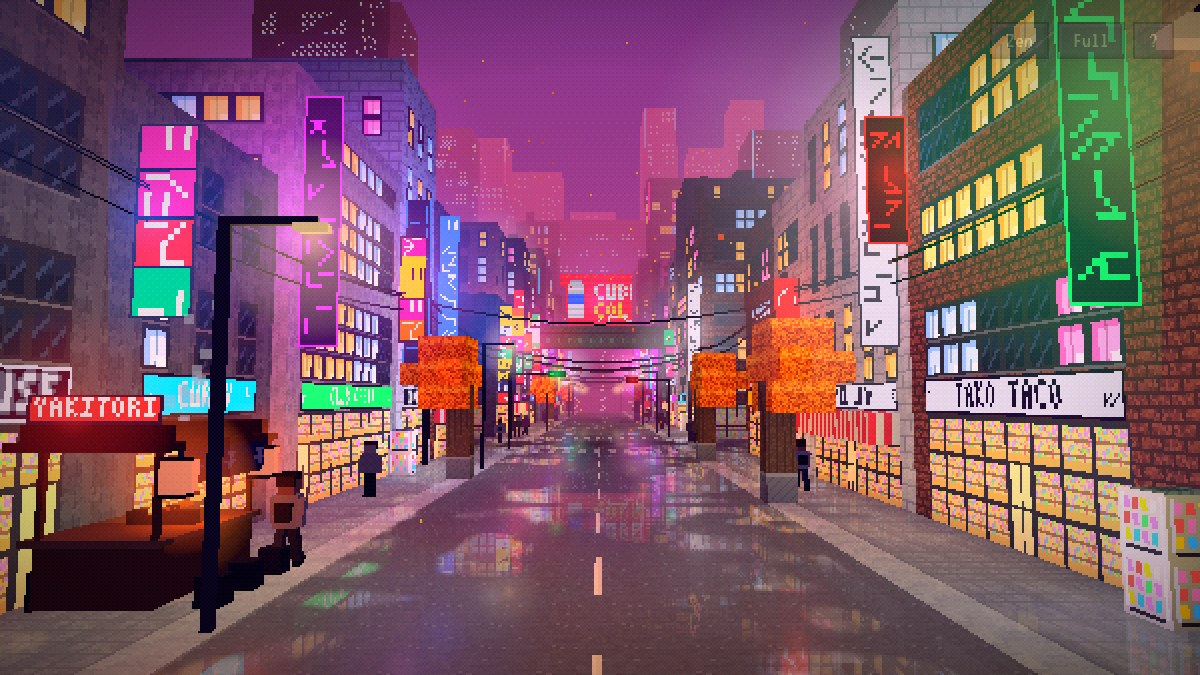
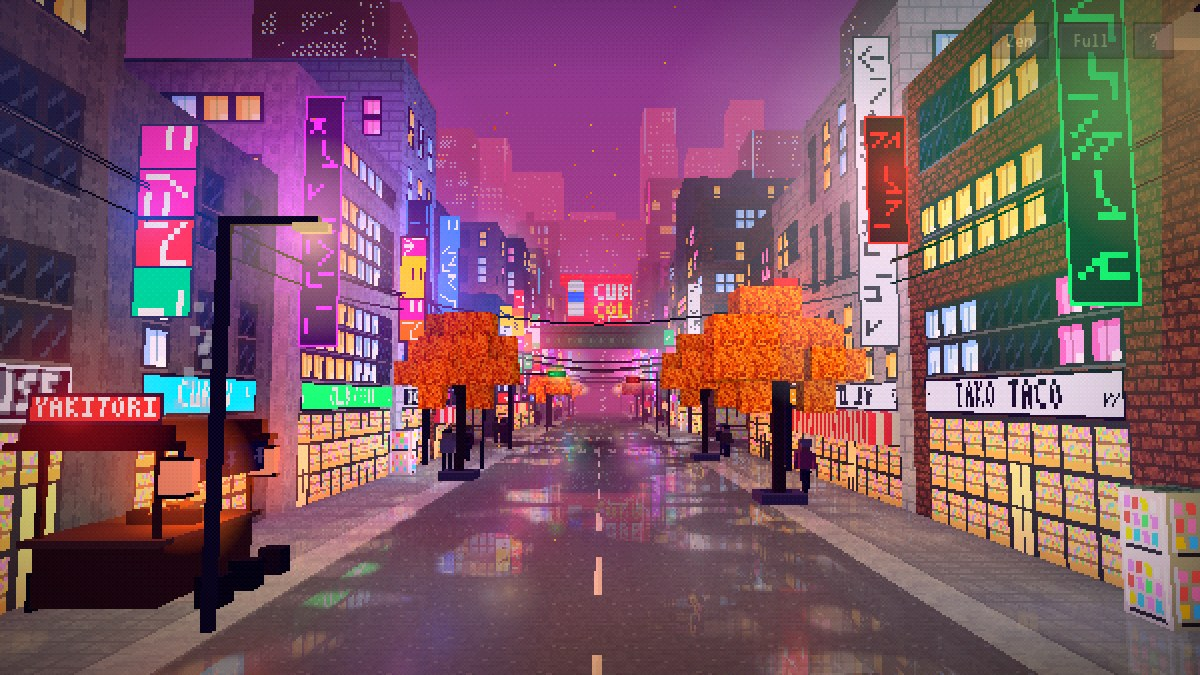
Give city trees and cars more volume
Trees: canopies made of several clumps at different depths, free to lean
over the road (they were clipped flat on the road side), shaded lighter
on top and darker below, with a softer leaf texture, on a slim trunk
with branches in a low planter instead of full blocks.

Cars: body, waist, glass cabin with a sky reflection, bumpers, plates,
mirrors and wheels, shaded per face with a sheen so dark cars keep their
shape at night, plus headlight beams and red tail glows on the road.
Each car or limb is now one merged mesh to keep draw calls down.

?advance=N fast-forwards the city's life for previews.

Claude-Session: https://claude.ai/code/session_01AbMesrFbhVrH8bBNLVapXi

diff --git a/js/world/city/life.js b/js/world/city/life.js
@@ -1,18 +1,57 @@
 // People walking the pavements (umbrellas up when it rains), cars with their lights and a
 // commuter train crossing the bridge. Nothing here casts shadows: the shadow map is static.
 import * as THREE from 'three';
+import { mergeGeometries } from 'three/addons/utils/BufferGeometryUtils.js';
 import { pixelTexture } from '../common.js';
 import { G, CROSS, BRIDGE, END_Z } from './build.js';
 import { YATAI } from './props.js';
 
+// Boxes shaded per face like the voxels (bright tops, darker sides and undersides), so small
+// things read as solid even when the light is flat.
 const mats = new Map();
-const lambert = (c) => { if (!mats.has(c)) mats.set(c, new THREE.MeshLambertMaterial({ color: c })); return mats.get(c); };
-const part = (parent, w, h, d, color, x, y, z) => {
-  const m = new THREE.Mesh(new THREE.BoxGeometry(w, h, d), typeof color === 'string' ? lambert(color) : color);
-  m.position.set(x, y, z);
-  parent.add(m);
-  return m;
-};
+const lambert = (c) => { if (!mats.has(c)) mats.set(c, new THREE.MeshLambertMaterial({ color: c, vertexColors: true })); return mats.get(c); };
+const SHADE = { px: 0.82, nx: 0.82, py: 1, ny: 0.45, pz: 0.7, nz: 0.7 };
+function shadedBox(w, h, d) {
+  const g = new THREE.BoxGeometry(w, h, d);
+  const n = g.attributes.normal, col = [];
+  for (let i = 0; i < n.count; i++) {
+    const x = n.getX(i), y = n.getY(i);
+    const k = y > 0.5 ? SHADE.py : y < -0.5 ? SHADE.ny : Math.abs(x) > 0.5 ? SHADE.px : SHADE.pz;
+    col.push(k, k, k);
+  }
+  g.setAttribute('color', new THREE.Float32BufferAttribute(col, 3));
+  return g;
+}
+// A kit collects coloured boxes and merges them into one mesh: one draw call per car or limb.
+const paintMat = new THREE.MeshLambertMaterial({ color: 0xffffff, vertexColors: true });
+const glowMat = new THREE.MeshBasicMaterial({ color: 0xffffff, vertexColors: true, toneMapped: false });
+function kit() {
+  const parts = [], c = new THREE.Color();
+  return {
+    box(w, h, d, color, x, y, z, lit = false) {
+      const g = lit ? new THREE.BoxGeometry(w, h, d) : shadedBox(w, h, d);
+      c.set(color);
+      const col = g.attributes.color ?? new THREE.Float32BufferAttribute(new Float32Array(g.attributes.position.count * 3).fill(1), 3);
+      // Plus a sheen: the purple sky and the neon caught on the paint, strongest on top, so even a
+      // black car keeps its shape at night.
+      const n = g.attributes.normal;
+      for (let i = 0; i < col.count; i++) {
+        const up = lit ? 0 : n.getY(i) > 0.5 ? 1 : n.getY(i) < -0.5 ? 0 : 0.35;
+        col.setXYZ(i, col.getX(i) * c.r + up * 0.05, col.getY(i) * c.g + up * 0.035, col.getZ(i) * c.b + up * 0.09);
+      }
+      g.setAttribute('color', col);
+      g.translate(x, y, z);
+      parts.push(g);
+      return this;
+    },
+    mesh(lit = false) {
+      const m = new THREE.Mesh(mergeGeometries(parts), lit ? glowMat : paintMat);
+      for (const p of parts) p.dispose();
+      return m;
+    },
+  };
+}
+const umbrellaMats = new Map();
 
 const COATS = ['#2a2a3a', '#4a4a5e', '#7a3a4a', '#3a5a7a', '#c8c0b0', '#5a6a4a', '#8a6a4a', '#1e1e28', '#d86a8a', '#e8e4dc'];
 const PANTS = ['#22222e', '#3a3a4e', '#4a4038', '#2a3448'];
@@ -23,53 +62,82 @@ const UMBRELLAS = ['#e8eef4', '#1e1e28', '#c83a4a', '#3a5aa8', '#e8eef4'];
 function makePerson(r) {
   const g = new THREE.Group();
   const pick = (a) => a[Math.floor(r() * a.length)];
-  const coat = pick(COATS), pants = pick(PANTS);
-  const legs = [-0.11, 0.11].map((x) => {
+  const coat = pick(COATS), pants = pick(PANTS), hair = pick(HAIR);
+  const limb = (x, y, build) => {
     const pivot = new THREE.Group();
-    pivot.position.set(x, 0.82, 0);
-    part(pivot, 0.17, 0.8, 0.2, pants, 0, -0.4, 0);
-    part(pivot, 0.18, 0.1, 0.26, '#1a1a20', 0, -0.78, 0.03);
+    pivot.position.set(x, y, 0);
+    pivot.add(build(kit()).mesh());
     g.add(pivot);
     return pivot;
-  });
-  part(g, 0.48, 0.66, 0.3, coat, 0, 1.15, 0);
-  const arms = [-0.3, 0.3].map((x) => {
-    const pivot = new THREE.Group();
-    pivot.position.set(x, 1.42, 0);
-    part(pivot, 0.13, 0.6, 0.16, coat, 0, -0.3, 0);
-    g.add(pivot);
-    return pivot;
-  });
-  part(g, 0.34, 0.34, 0.32, pick(SKIN), 0, 1.66, 0);
-  part(g, 0.37, 0.14, 0.35, pick(HAIR), 0, 1.84, -0.01);
-  part(g, 0.37, 0.2, 0.08, pick(HAIR), 0, 1.72, -0.16);
-  if (r() < 0.3) part(g, 0.3, 0.36, 0.14, pick(['#3a2a20', '#1a1a20', '#6a4a8a']), 0, 1.15, -0.22);   // a backpack
+  };
+  const legs = [-0.11, 0.11].map((x) => limb(x, 0.82, (k) => k.box(0.17, 0.8, 0.2, pants, 0, -0.4, 0).box(0.18, 0.1, 0.26, '#1a1a20', 0, -0.78, 0.03)));
+  const arms = [-0.3, 0.3].map((x) => limb(x, 1.42, (k) => k.box(0.13, 0.6, 0.16, coat, 0, -0.3, 0)));
+  const body = kit()
+    .box(0.48, 0.66, 0.3, coat, 0, 1.15, 0)
+    .box(0.34, 0.34, 0.32, pick(SKIN), 0, 1.66, 0)
+    .box(0.37, 0.14, 0.35, hair, 0, 1.84, -0.01)
+    .box(0.37, 0.2, 0.08, hair, 0, 1.72, -0.16);
+  if (r() < 0.3) body.box(0.3, 0.36, 0.14, pick(['#3a2a20', '#1a1a20', '#6a4a8a']), 0, 1.15, -0.22);   // a backpack
+  g.add(body.mesh());
   // Umbrella: a low eight-sided cone on a handle, held a little forward.
   const umbrella = new THREE.Group();
   const col = pick(UMBRELLAS);
-  const clear = col === '#e8eef4';
-  umbrella.add(new THREE.Mesh(new THREE.ConeGeometry(0.72, 0.32, 8), new THREE.MeshLambertMaterial({ color: col, transparent: clear, opacity: clear ? 0.6 : 1 })));
-  umbrella.children[0].position.y = 0.16;
-  part(umbrella, 0.04, 0.75, 0.04, '#2a2a30', 0, -0.3, 0);
+  if (!umbrellaMats.has(col)) { const clear = col === '#e8eef4'; umbrellaMats.set(col, new THREE.MeshLambertMaterial({ color: col, transparent: clear, opacity: clear ? 0.6 : 1 })); }
+  const canopy = new THREE.Mesh(new THREE.ConeGeometry(0.72, 0.32, 8), umbrellaMats.get(col));
+  canopy.position.y = 0.16;
+  umbrella.add(canopy, kit().box(0.04, 0.75, 0.04, '#2a2a30', 0, -0.3, 0).mesh());
   umbrella.position.set(0.12, 2.2, 0.1);
   g.add(umbrella);
   return { group: g, legs, arms, umbrella, wantsUmbrella: r() };
 }
 
+// Light on the road in front of a car and a red smudge behind it. Shared by all cars, so their
+// brightness is set once per frame for the time of day.
+function poolTexture(long) {
+  const c = document.createElement('canvas');
+  c.width = 16; c.height = 32;
+  const g = c.getContext('2d');
+  for (let y = 0; y < 32; y++) for (let x = 0; x < 16; x++) {
+    const u = (x - 7.5) / 8, v = y / 31;
+    const a = long ? Math.max(0, 1 - v) * Math.max(0, 1 - Math.abs(u) / (0.45 + v * 0.55)) : Math.max(0, 1 - Math.hypot(u, (v - 0.5) * 2));
+    g.fillStyle = `rgba(255,255,255,${(a * a).toFixed(3)})`;
+    g.fillRect(x, y, 1, 1);
+  }
+  return pixelTexture(c);
+}
+const beamMat = new THREE.MeshBasicMaterial({ map: poolTexture(true), color: 0xfff0d0, transparent: true, blending: THREE.AdditiveBlending, depthWrite: false, toneMapped: false });
+const tailPoolMat = new THREE.MeshBasicMaterial({ map: poolTexture(false), color: 0xff2a2a, transparent: true, blending: THREE.AdditiveBlending, depthWrite: false, toneMapped: false });
+
+const CAR_COLOURS = ['#e8e8ec', '#1e1e26', '#e8c43a', '#8a2a30', '#9aa0ac', '#2a4a8a', '#3a6a5a'];
 function makeCar(r) {
   const g = new THREE.Group();
-  const kinds = [['#e8e8ec', '#2a2e3a'], ['#1a1a22', '#2a2e3a'], ['#e8c43a', '#2a2e3a'], ['#8a2a30', '#2a2e3a'], ['#9aa0ac', '#2a2e3a'], ['#2a4a8a', '#2a2e3a']];
-  const [body, glass] = kinds[Math.floor(r() * kinds.length)];
-  part(g, 1.8, 0.75, 4.2, body, 0, 0.6, 0);
-  part(g, 1.6, 0.6, 2.2, glass, 0, 1.25, -0.2);
-  part(g, 1.62, 0.08, 2.0, body, 0, 1.58, -0.2);
-  for (const [x, z] of [[-0.85, 1.3], [0.85, 1.3], [-0.85, -1.3], [0.85, -1.3]]) part(g, 0.2, 0.5, 0.5, '#141418', x, 0.25, z);
-  if (body === '#e8c43a') part(g, 0.5, 0.22, 0.3, '#f4f0e0', 0, 1.73, 0);       // the taxi roof light
-  const head = new THREE.MeshBasicMaterial({ color: 0xfff4d8 }), tail = new THREE.MeshBasicMaterial({ color: 0xff2a2a });
-  for (const x of [-0.6, 0.6]) {
-    part(g, 0.36, 0.16, 0.05, head, x, 0.72, 2.11);
-    part(g, 0.32, 0.14, 0.05, tail, x, 0.74, -2.11);
+  const body = CAR_COLOURS[Math.floor(r() * CAR_COLOURS.length)];
+  const glass = '#1a2030', trim = '#24242c';
+  const k = kit()
+    .box(1.8, 0.5, 4.2, body, 0, 0.47, 0)                         // lower body
+    .box(1.76, 0.2, 3.9, body, 0, 0.82, -0.05)                    // waist, so the bonnet and boot step down
+    .box(1.84, 0.06, 4.0, trim, 0, 0.73, 0)                       // a dark crease along the side
+    .box(1.56, 0.56, 2.1, glass, 0, 1.2, -0.2)                    // the cabin
+    .box(1.58, 0.1, 1.9, '#4e5c7a', 0, 1.3, -0.2)                 // sky caught in the side windows
+    .box(1.5, 0.08, 1.8, body, 0, 1.52, -0.25);                   // roof
+  for (const z of [-2.12, 2.12]) {
+    k.box(1.86, 0.2, 0.14, trim, 0, 0.3, z);                      // bumpers
+    k.box(0.46, 0.16, 0.04, '#e8e8e0', 0, 0.48, z + Math.sign(z) * 0.07);   // number plates
   }
+  for (const [x, z] of [[-0.86, 1.3], [0.86, 1.3], [-0.86, -1.3], [0.86, -1.3]]) k.box(0.22, 0.56, 0.56, '#121216', x, 0.28, z);
+  for (const x of [-0.98, 0.98]) k.box(0.14, 0.12, 0.22, body, x, 1.0, 0.75);     // mirrors
+  if (body === '#e8c43a') k.box(0.5, 0.22, 0.3, '#f4f0e0', 0, 1.67, -0.2).box(1.82, 0.08, 1.2, '#2a2a2a', 0, 0.62, -0.3);   // taxi light and band
+  const lights = kit();
+  for (const x of [-0.62, 0.62]) lights.box(0.4, 0.14, 0.05, '#fff4d8', x, 0.68, 2.11, true).box(0.42, 0.12, 0.05, '#ff2a2a', x, 0.7, -2.11, true);
+  lights.box(1.0, 0.05, 0.05, '#ff2a2a', 0, 0.7, -2.11, true);    // light bar between the tail lights
+  g.add(k.mesh(), lights.mesh(true));
+  const beam = new THREE.Mesh(new THREE.PlaneGeometry(2.6, 9), beamMat);
+  beam.rotation.x = -Math.PI / 2;
+  beam.position.set(0, 0.03, 2.1 + 4.5);
+  const pool = new THREE.Mesh(new THREE.PlaneGeometry(2.4, 2), tailPoolMat);
+  pool.rotation.x = -Math.PI / 2;
+  pool.position.set(0, 0.03, -2.6);
+  g.add(beam, pool);
   return g;
 }
 
@@ -180,7 +248,7 @@ export function createLife(root, addGlow, seedRng) {
   const train = new THREE.Group();
   const CARS = 5, LEN = 11;
   for (let i = 0; i < CARS; i++) {
-    const m = new THREE.Mesh(new THREE.BoxGeometry(LEN - 0.4, 2.6, 2.8), [trainBody, trainBody, lambert('#9aa0ac'), trainBody, trainSide, trainSide]);
+    const m = new THREE.Mesh(shadedBox(LEN - 0.4, 2.6, 2.8), [trainBody, trainBody, lambert('#9aa0ac'), trainBody, trainSide, trainSide]);
     m.position.set(i * LEN, 0, 0);
     train.add(m);
   }
@@ -199,7 +267,11 @@ export function createLife(root, addGlow, seedRng) {
   }
 
   return {
-    applyTime(night) { trainSide.emissiveIntensity = 0.1 + night * 1.2; },
+    applyTime(night) {
+      trainSide.emissiveIntensity = 0.1 + night * 1.2;
+      beamMat.opacity = 0.08 + night * 0.4;
+      tailPoolMat.opacity = 0.05 + night * 0.35;
+    },
     update(dt, time, env) {
       updatePeople(dt, time, env.rain);
       updateCars(dt);

diff --git a/js/world/city/build.js b/js/world/city/build.js
@@ -231,12 +231,21 @@ export function generateCity() {
     light(vx + 0.5 - Math.sign(vx) * 1.2, G + 1, vz + 0.5, '#d0e4ff', 1.4);
   }
   const trees = [[6, -9], [-6, -16], [6, -26], [-6, -72], [6, -102], [-6, -126]];
+  // Trunks and planters are props (thin meshes); the canopy is voxels so it gets AO and neon
+  // light. It's a cluster of round clumps at different depths and heights, so the side facing
+  // the camera steps in and out instead of reading as one flat slab, and it leans over the road.
   for (const [tx, tz] of trees) {
-    set(tx, G, tz, B.planter);
-    for (let y = G + 1; y < G + 4; y++) set(tx, y, tz, B.trunk);
-    for (let y = G + 3; y < G + 6; y++) for (let dz = -2; dz <= 2; dz++) for (let dx = -2; dx <= 2; dx++) {
-      const dd = dx * dx + dz * dz + (y - G - 4) * (y - G - 4) * 1.5;
-      if (dd <= 4.2 && get(tx + dx, y, tz + dz) === B.AIR && !road(tx + dx)) set(tx + dx, y, tz + dz, B.leaves);
+    const lean = -Math.sign(tx);
+    const clumps = [[0, 5.2, 0, 1.9], [lean * 1.4, 4.7, 1.1, 1.5], [-lean * 0.8, 4.9, -1.2, 1.6], [lean * 0.5, 6.2, 0.3, 1.35], [-lean * 1.1, 4.3, 0.9, 1.15]];
+    for (let y = G + 2; y < G + 9; y++) for (let dz = -4; dz <= 4; dz++) for (let dx = -4; dx <= 4; dx++) {
+      const x = tx + dx, z = tz + dz, n = hash(x, y, z);
+      let inside = false;
+      for (const [cx, cy, cz, cr] of clumps) {
+        const ex = dx - cx, ey = (y + 0.5 - G - cy) * 1.15, ez = dz - cz;
+        const e = (ex * ex + ey * ey + ez * ez) / (cr * cr);
+        if (e < 0.6 || (e < 1 && n < 0.75)) { inside = true; break; }
+      }
+      if (inside && get(x, y, z) === B.AIR) set(x, y, z, B.leaves);
     }
   }
 
@@ -325,7 +334,9 @@ export function buildCityMeshes(city) {
         o.pos.push(vx, vy, vz);
         o.nor.push(...f.n);
         const s = AO[aos[i]], k = 1 - s;
-        o.col.push(s * t[0] * (1 - k * 0.25), s * t[1] * (1 - k * 0.2), Math.min(1, s * t[2] * (1 + k * 0.3)));
+        let l = 1;
+        if (id === B.leaves) l = (f.n[1] > 0 ? 1.2 : f.n[1] < 0 ? 0.55 : f.n[0] ? 0.78 : 0.95) * (0.82 + hash(x, y, z) * 0.3) * (0.8 + (y - G - 2) * 0.06);
+        o.col.push(s * t[0] * l * (1 - k * 0.25), s * t[1] * l * (1 - k * 0.2), Math.min(1.2, s * t[2] * l * (1 + k * 0.3)));
         field(vx, vy, vz, f.n, tmp);
         o.neon.push(tmp[0], tmp[1], tmp[2]);
       });

diff --git a/js/world/city/textures.js b/js/world/city/textures.js
@@ -177,14 +177,19 @@ export function createAtlas() {
       for (let y = 0; y < S; y++) { px(3, y, '#9a9aa8'); px(12, y, '#9a9aa8'); }
       for (let y = 1; y < S; y += 4) for (let x = 1; x < 15; x++) if (x !== 3 && x !== 12) px(x, y, '#5a4a3e');
     });
+    // Leaves: soft clusters of light and shade with a few dark gaps, no grid to read as bricks.
     tile(T.leaves, (px) => {
       const L = season.leaves;
-      for (let y = 0; y < S; y++) for (let x = 0; x < S; x++) {
-        if (snow && r() < 0.45) { px(x, y, r() < 0.5 ? L[2] : L[3]); continue; }
-        if (snow) { px(x, y, r() < 0.5 ? L[0] : L[1]); continue; }
-        const v = Math.min(3, Math.floor(r() * 2.2 + (y < 6 ? 1.4 : 0.6)));
-        px(x, y, L[v]);
+      if (snow) {
+        for (let y = 0; y < S; y++) for (let x = 0; x < S; x++) px(x, y, r() < 0.45 ? (r() < 0.5 ? L[2] : L[3]) : (r() < 0.5 ? L[0] : L[1]));
+        return;
       }
+      fill(px, L, { cell: 3, grain: 0.55, bias: 0.06 });
+      for (let i = 0; i < 9; i++) {                            // highlights: little sunlit leaves
+        const x = Math.floor(r() * 15), y = Math.floor(r() * 15);
+        px(x, y, L[3]); px(x + 1, y, L[2]);
+      }
+      for (let i = 0; i < 7; i++) px(Math.floor(r() * S), Math.floor(r() * S), L[0]);
     });
     tile(T.trunk, (px) => { for (let y = 0; y < S; y++) for (let x = 0; x < S; x++) px(x, y, x % 4 === 1 ? '#3a2a26' : r() < 0.3 ? '#5a4036' : '#4a342e'); });
     const neon = (id, tube, core) => tile(id, (px, glow) => {

diff --git a/js/world/city/props.js b/js/world/city/props.js
@@ -26,6 +26,19 @@ export function createProps(root, city, addGlow) {
     light(x - s * 1.35, G + 5.6, zz, '#ffd8a0', 2.2);
   }
 
+  // ---------- street trees: a low stone planter, a slim trunk and two branches into the canopy ----------
+  const barkMat = new THREE.MeshLambertMaterial({ color: 0x4a362e });
+  const planterMat = new THREE.MeshLambertMaterial({ color: 0x7a7884 }), soilMat = new THREE.MeshLambertMaterial({ color: 0x3a2e2a });
+  for (const [tx, tz] of city.trees) {
+    const x = tx + 0.5, z = tz + 0.5;
+    for (const [w, d, dx, dz] of [[1.5, 0.18, 0, -0.66], [1.5, 0.18, 0, 0.66], [0.18, 1.5, -0.66, 0], [0.18, 1.5, 0.66, 0]]) box(w, 0.35, d, planterMat, x + dx, G + 0.175, z + dz);
+    box(1.2, 0.2, 1.2, soilMat, x, G + 0.1, z);
+    box(0.36, 4.4, 0.36, barkMat, x, G + 2.2, z);
+    const lean = Math.sign(-tx) * 0.5;                    // the tree leans a little towards the light over the road
+    box(0.24, 1.8, 0.24, barkMat, x + lean * 0.8, G + 3.9, z + 0.3).rotation.set(0.35, 0, -lean);
+    box(0.22, 1.6, 0.22, barkMat, x - lean * 0.6, G + 3.8, z - 0.4).rotation.set(-0.4, 0, lean * 0.8);
+  }
+
   // ---------- utility poles and their wires ----------
   const wirePts = [];
   const wire = (a, b, sag) => {

diff --git a/js/world/city/index.js b/js/world/city/index.js
@@ -189,6 +189,13 @@ export function createScene(root, params) {
     shadow: { target: new THREE.Vector3(0.5, 10, -50), extent: 95 },
     particles: (name) => SEASONS[name].particles,
 
+    // ?advance=N: fast-forward the people, cars and train N seconds, for previews.
+    preview() {
+      const n = Number(params.get('advance') || 0) * 10;
+      const env = { k: { night: 0 }, rain: 0, fire: 0, season };
+      for (let i = 0; i < n; i++) life.update(0.1, i * 0.1, env);
+    },
+
     applySeason(name) {
       season = name;
       atlas.paint(name);

diff --git a/CLAUDE.md b/CLAUDE.md
@@ -18,7 +18,7 @@ python3 -m http.server 8931
 
 Port 8765 belongs to another of the user's projects — don't use or kill it.
 
-Preview overrides via URL: `?scene=valley|city`, `?time=day|sunset|night|clock|cycle`, `?t=0.72` (0 = midnight, 0.5 = noon), `?season=spring|summer|autumn|winter`, `?fire=0..1`, `?rain=0..1`, `?critter=rabbit|birds|ducks|deer|fox|owl|hedgehog&advance=N` (spawn a visitor and fast-forward N seconds), `?shot` (sets `preserveDrawingBuffer` so the canvas can be read with `toDataURL` for headless screenshots).
+Preview overrides via URL: `?scene=valley|city`, `?time=day|sunset|night|clock|cycle`, `?t=0.72` (0 = midnight, 0.5 = noon), `?season=spring|summer|autumn|winter`, `?fire=0..1`, `?rain=0..1`, `?critter=rabbit|birds|ducks|deer|fox|owl|hedgehog&advance=N` (spawn a visitor and fast-forward N seconds; in the city `?advance=N` alone fast-forwards people, cars and the train), `?shot` (sets `preserveDrawingBuffer` so the canvas can be read with `toDataURL` for headless screenshots).
 
 ## Architecture
 
@@ -32,7 +32,7 @@ World pipeline:
 - `main.js` is a scene-agnostic engine (renderer, sky, sun/moon/stars, hemi + shadowed sun light, rain, seasonal particles, the grade, the loop). The scene itself is a module loaded with dynamic `import()` from `SCENES`: `valley/index.js` (and `city/`). The contract (`keys`, `camera`, `area`, `fog`, `shadow`, `particles()`, `applySeason`, `applyTime`, `update`, `preview`, `dispose`) is documented at the top of `main.js`; everything a scene creates goes under its `root` group, which `disposeTree()` frees on a switch. Shared helpers live in `common.js`.
 - Valley: `valley/build.js` `generateWorld()` fills a voxel grid (block ids in `B`) and exports shared layout (`ground()`, `riverX(z)`, `farm`, `dock`, `camp`, `mine`, `fences`, `bushes`) that `props.js` and `critters.js` use to place things. `buildFar()` continues `naturalHeight()` and the river past the map edge, so terrain changes show up in the background too. Changing terrain/river/cabin positions means checking those consumers and the scene's `camera` in `valley/index.js`.
 - `valley/textures.js` paints a procedural 8×4 atlas of 16px tiles (indices in `T`) and repaints it per season from `SEASONS` palettes; new block faces need a tile index here plus mapping in `build.js`.
-- City: `city/build.js` `generateCity()` fills its own grid (ids = `T` tile + 1) with the street (road |x|≤5, pavements to |x|=9, buildings from |x|=10, the street runs towards -z from the fixed camera `CAM`), a cross street (`CROSS`), the railway bridge (`BRIDGE`) and towers past `END_Z`; it also collects `signs` (painted into one atlas by `signs.js`, one merged quad mesh with per-sign vertex colours for flicker) and light sources. `props.js` must run before `buildCityMeshes()` because its lamps and lanterns add to `city.lights`, which are baked per vertex into a `neon` attribute added as emissive in the shader. The mesher skips faces turned away from the camera (but keeps tops, which cast the shadows) and ground nobody can see, so moving the camera far means revisiting that. The wet street: the ground doesn't write depth and a mirrored copy (y→2G−y) of the emissive geometry is drawn additively under it, masked by puddle noise at the eye ray's hit point; glows created with `reflect` get a mirrored sprite.
+- City: `city/build.js` `generateCity()` fills its own grid (ids = `T` tile + 1) with the street (road |x|≤5, pavements to |x|=9, buildings from |x|=10, the street runs towards -z from the fixed camera `CAM`), a cross street (`CROSS`), the railway bridge (`BRIDGE`) and towers past `END_Z`; it also collects `signs` (painted into one atlas by `signs.js`, one merged quad mesh with per-sign vertex colours for flicker) and light sources. `props.js` must run before `buildCityMeshes()` because its lamps and lanterns add to `city.lights`, which are baked per vertex into a `neon` attribute added as emissive in the shader. The mesher skips faces turned away from the camera (but keeps tops, which cast the shadows) and ground nobody can see, so moving the camera far means revisiting that. The wet street: the ground doesn't write depth and a mirrored copy (y→2G−y) of the emissive geometry is drawn additively under it, masked by puddle noise at the eye ray's hit point; glows created with `reflect` get a mirrored sprite. Cars and people are built with `kit()` in `life.js`, which merges per-face-shaded boxes into one mesh per car or limb (keep it that way: draw calls add up fast). Tree trunks are props; canopies are voxel clumps in the grid.
 - Meshes are built from the grid with face culling and baked ambient occlusion; plants/crops are separate cross-quad meshes rebuilt on season change. Props and critters are hand-built Three.js meshes with per-season visibility.
 - `main.js` drives lighting by interpolating the scene's keyframes (`keys`, sampled by `sampleKeys`) over the day, renders at half resolution (`PIXEL=0.5`) with pixelated upscaling, caps at 30 fps and redraws the shadow map only when the light direction has turned by more than 0.003 rad (`refreshShadows`) or the season changes, so anything that moves won't update its shadow. On slow machines `watchSpeed` steps quality down (1024 hard shadows, then 0.8× render scale; `Scene.state.quality`); never with `?shot`. The loop stops entirely while `document.hidden` (restarted on `visibilitychange`). Fire visuals follow the fire volume slider (`state.fire`, smoothed `fireLevel`).
 

diff --git a/README.md b/README.md
@@ -99,6 +99,7 @@ Handy for previews and screenshots. `scene`, `time`, `t`, `season`, `fire` and `
 | `?fire=0.8` | Fix the campfire (or grill) intensity (0 to 1) |
 | `?rain=0.7` | Fix the rain (0 to 1) |
 | `?critter=rabbit\|birds\|ducks\|deer\|fox\|owl\|hedgehog&advance=10` | Spawn a visitor in the valley and fast-forward it N seconds |
+| `?scene=city&advance=20` | Fast-forward the city's people, cars and train N seconds |
 | `?shot` | Preserve the drawing buffer so the canvas can be read (screenshots) |
 
 ### Structure
